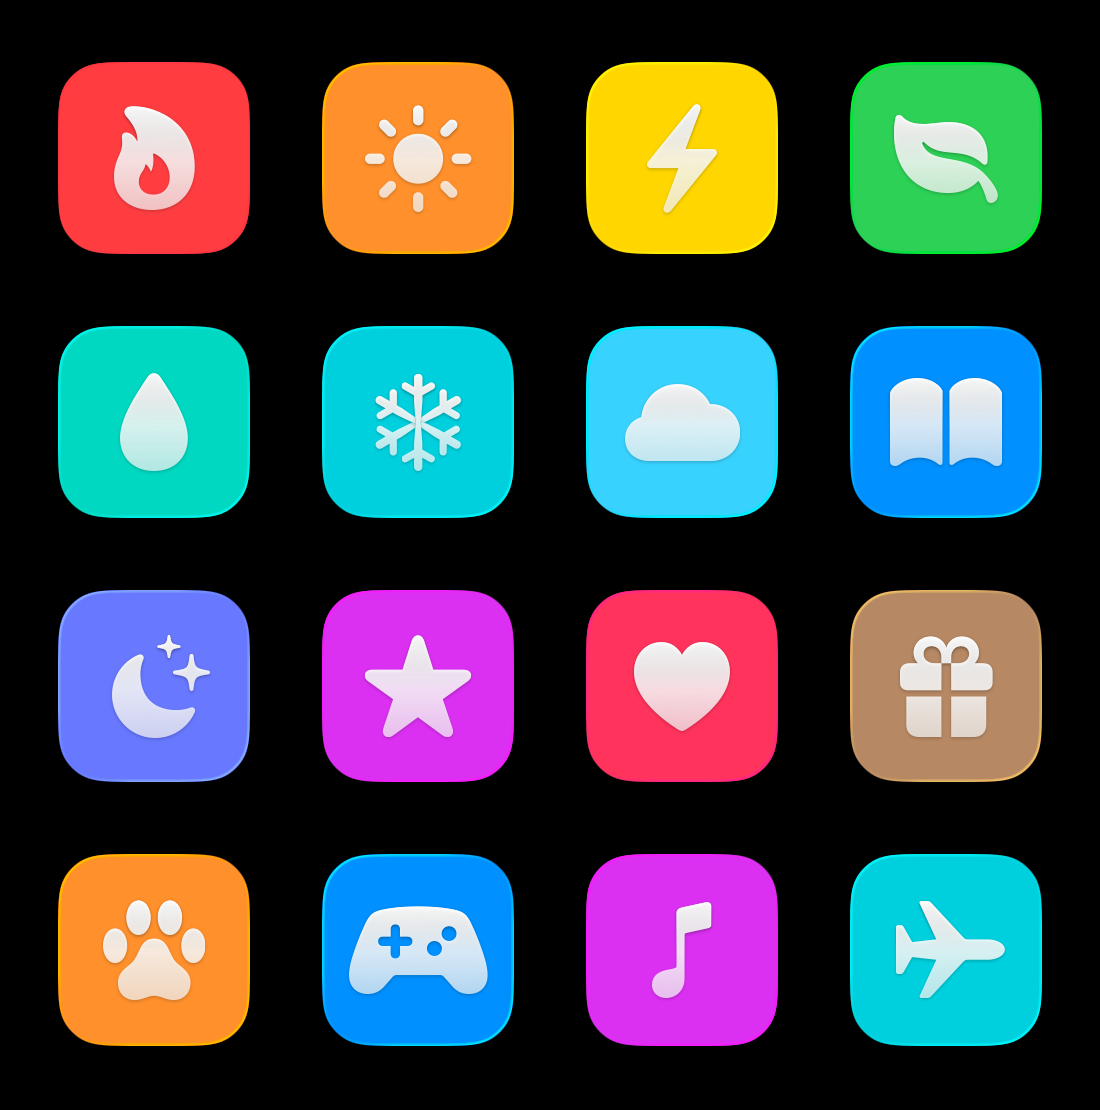
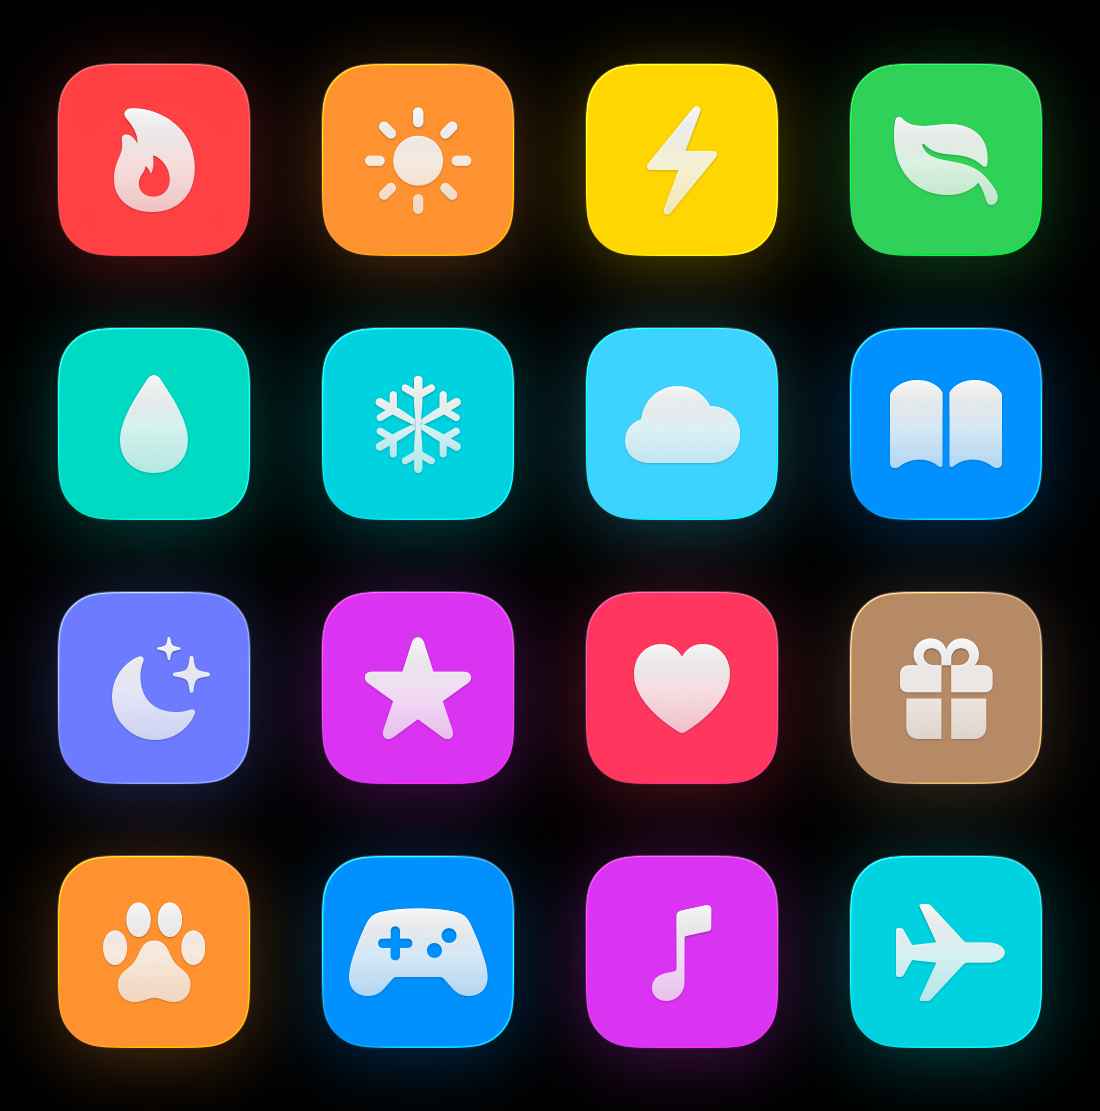
Restore depth on dark backgrounds
On dark backgrounds glass has little ambient light to refract, so Candy
tiles flattened out: black drop shadows vanish and the rim loses
definition. Candy tiles now draw two dark-only depth cues — a
tint-colored ambient glow behind the tile (honoring the shadows
preference) and a faint top-lit rim along the edge. Light mode renders
identically to before. Refreshed the dark-mode screenshot.

diff --git a/Sources/GlassIconKit/GlassIconTile.swift b/Sources/GlassIconKit/GlassIconTile.swift
@@ -20,6 +20,11 @@ import SwiftUI
 /// Provide the glyph (typically an `Image(systemName:)` with a font) via the
 /// trailing closure; the tile applies the finish for you.
 ///
+/// In dark mode, Candy tiles add two depth cues that dark backgrounds would
+/// otherwise swallow: a tint-colored ambient glow (honoring the shared
+/// shadows preference) and a faint top-lit rim along the tile edge, so the
+/// glass keeps its elevation and richness without ambient light to refract.
+///
 /// The tile is decorative: it is hidden from assistive technologies, since it
 /// always sits beside text that carries the meaning (a settings row, a tracker
 /// title). If a tile must be announced on its own, label its container:
@@ -37,9 +42,12 @@ public struct GlassIconTile<Glyph: View>: View {
     private let gradient: Bool
     private let glyph: Glyph
 
+    @Environment(\.colorScheme) private var colorScheme
+
     @AppStorage(IconStyle.candyModeKey) private var candyMode = IconStyle.candyModeDefault
     @AppStorage(IconStyle.roundIconsKey) private var roundIcons = IconStyle.roundIconsDefault
     @AppStorage(VisualEffectStyle.gradientsEnabledKey) private var gradientsEnabled = VisualEffectStyle.gradientsEnabledDefault
+    @AppStorage(VisualEffectStyle.shadowsEnabledKey) private var shadowsEnabled = VisualEffectStyle.shadowsEnabledDefault
 
     /// Creates a tile with a custom glyph view.
     ///
@@ -88,9 +96,54 @@ public struct GlassIconTile<Glyph: View>: View {
         }
     }
 
+    // In dark mode glass has little ambient light to refract, so the tile loses
+    // the elevation and edge definition it gets for free on bright backgrounds.
+    // Restore both with dark-only cues: a tint-colored ambient glow behind the
+    // tile (a black drop shadow would vanish on a dark background) and a faint
+    // top-lit rim along the tile edge. Light mode renders exactly as before.
+    private var isDarkCandy: Bool { candyMode && colorScheme == .dark }
+
+    /// Colored under-glow standing in for the drop shadow dark backgrounds
+    /// swallow. Drawn as a blurred copy of the tile shape (not `.shadow`, whose
+    /// silhouette is unreliable over glass rendering).
+    @ViewBuilder private var darkModeGlow: some View {
+        if isDarkCandy && shadowsEnabled {
+            tileShape
+                .fill(tint)
+                .frame(width: size, height: size)
+                .blur(radius: size * 0.18)
+                .opacity(0.35)
+                .offset(y: size * 0.05)
+        }
+    }
+
+    /// Top-lit edge highlight so the glass rim reads without ambient light.
+    /// Falls back to a uniform hairline when gradients are disabled.
+    @ViewBuilder private var darkModeRim: some View {
+        if isDarkCandy {
+            tileShape
+                .stroke(
+                    gradientsEnabled
+                        ? AnyShapeStyle(
+                            LinearGradient(
+                                colors: [.white.opacity(0.25), .white.opacity(0.04)],
+                                startPoint: .top,
+                                endPoint: .bottom
+                            )
+                        )
+                        : AnyShapeStyle(Color.white.opacity(0.10)),
+                    lineWidth: 1
+                )
+                .frame(width: size, height: size)
+                .blendMode(.plusLighter)
+        }
+    }
+
     public var body: some View {
         tileBackground
+            .background { darkModeGlow }
             .overlay { glyph.candyGlyph(candyMode, base: glyphBase) }
+            .overlay { darkModeRim }
             .accessibilityHidden(true)   // decorative — see the type docs
     }
 }

diff --git a/README.md b/README.md
@@ -156,6 +156,11 @@ finish (useful for a "reduce visual effects" setting).
   colors it automatically softens the sheen and highlight (Rec. 601 luma on
   clamped sRGB components) so dark glyphs keep their gloss instead of washing
   out to gray.
+- **Dark mode:** glass has little ambient light to refract on dark backgrounds,
+  so Candy tiles add two dark-only depth cues — a tint-colored ambient glow
+  (honoring the shadows preference) and a faint top-lit rim along the tile
+  edge — keeping their elevation and richness. Light mode renders identically
+  to before.
 - **Previews:** every component ships with `#Preview` galleries — including an
   alignment-grid overlay for judging glyph placement — using in-memory
   `defaultAppStorage` suites so specific Candy/Round combinations render side